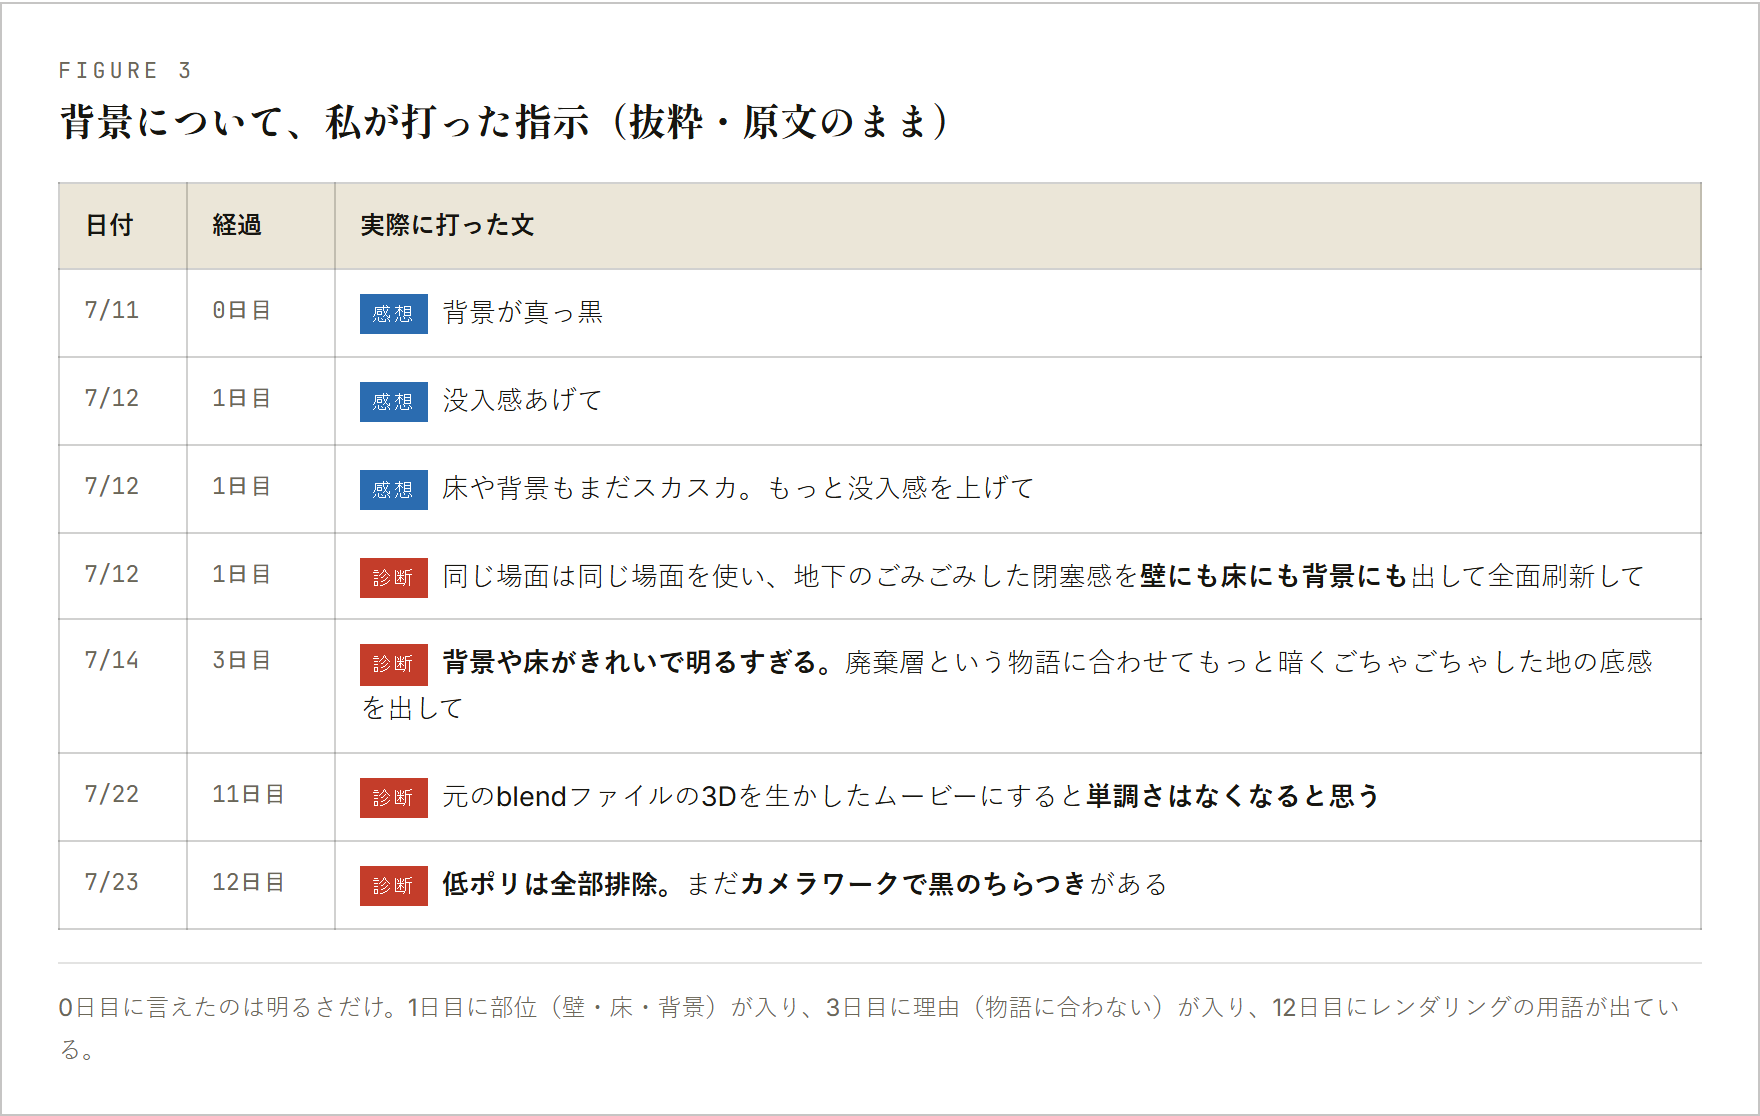
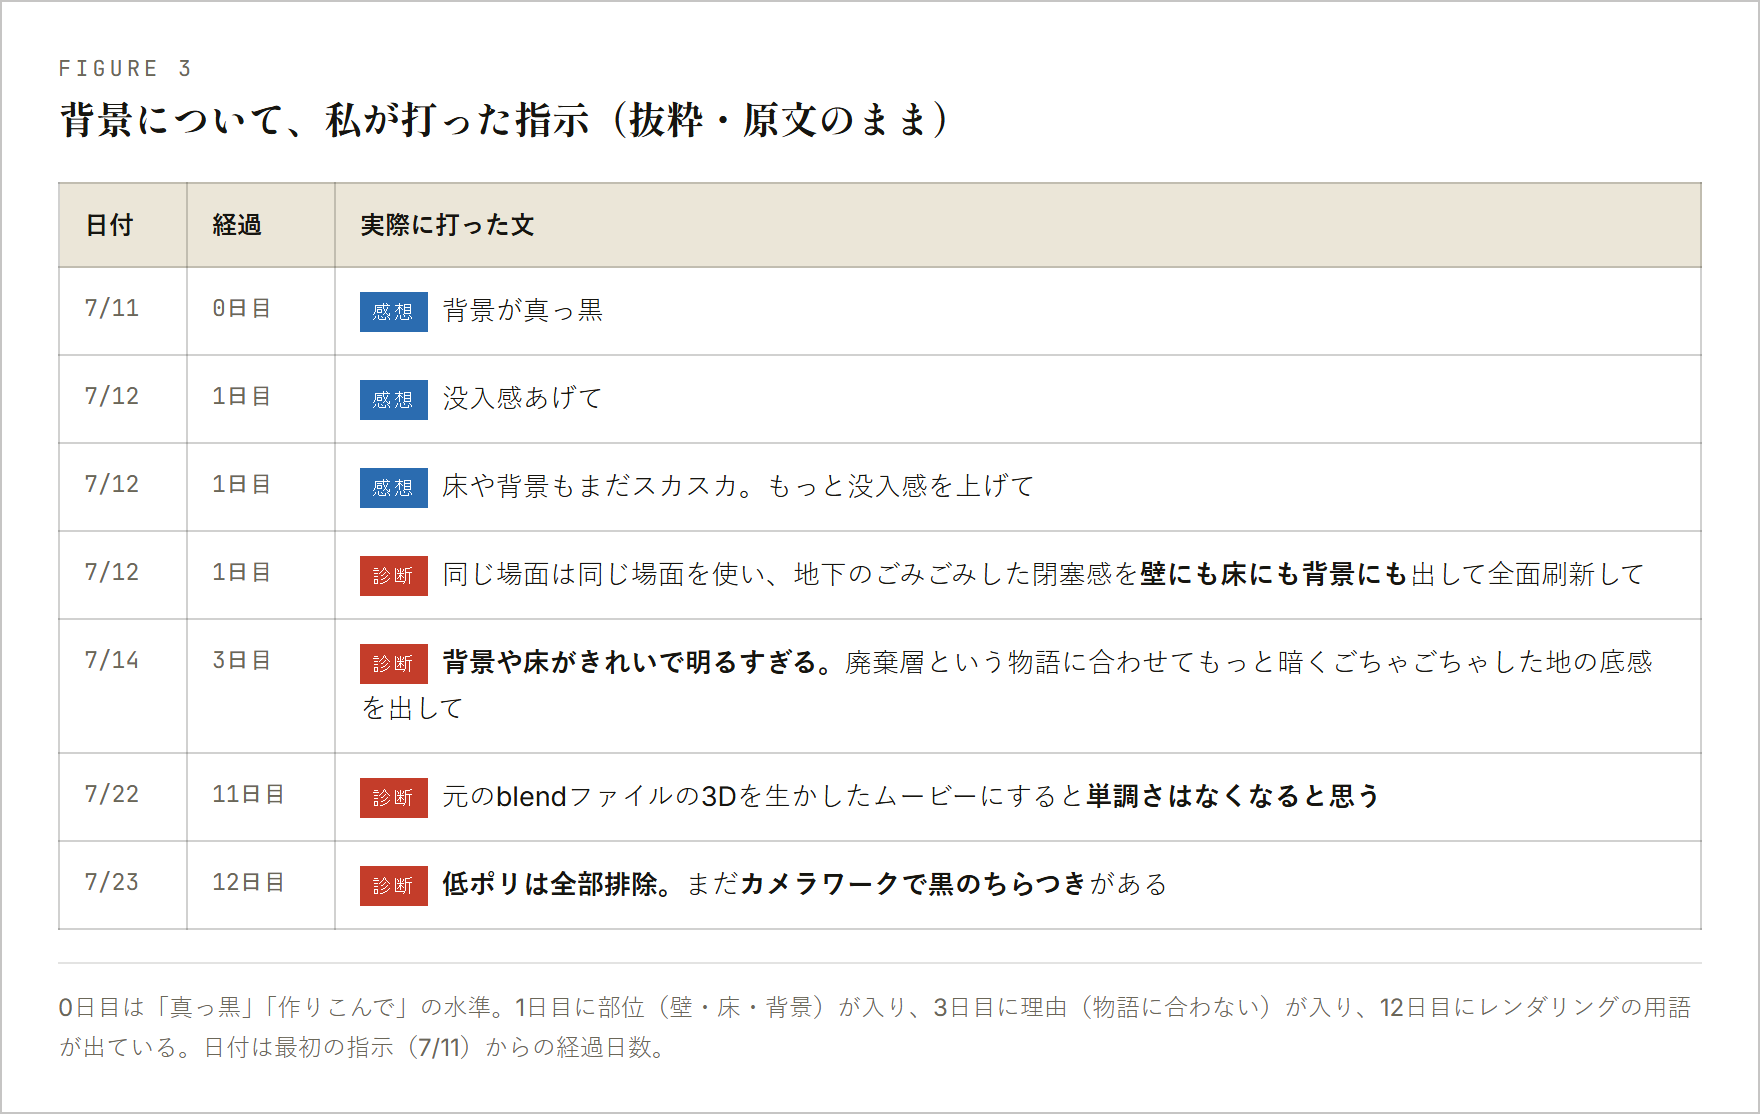
fix(method): A-9 の「12日で6回」を実測の2日半に訂正
背景6版のコミットは 2026-07-12 10:40 〜 07-14 23:34 で、差は2日12時間54分。
「12日」は指示ログ全体（7/11〜7/23）の期間で、背景の作り直し期間と取り違えていた。
記事本文・Figure 1・見出し画像・X用カードをすべて訂正し、図には実時刻を明記。
Figure 3 の「0日目に言えたのは明るさだけ」も、同日に「作りこんで」があるため表現を弱めた。

diff --git a/method/mongaikan-no-mekiki.html b/method/mongaikan-no-mekiki.html
@@ -96,13 +96,13 @@ figcaption{margin-top:9px;font-size:12.5px;color:var(--ink-3);line-height:1.65}
 
   <h3>実例 — 私は3Dで止まった</h3>
   <p>
-    サウンドノベル『正解の外側』の廃棄層。同じ場所の360°背景を、12日で6回作り直しています。
+    サウンドノベル『正解の外側』の廃棄層。同じ場所の360°背景を、<strong>2日半で6回</strong>作り直しています。
     素材は KitBash3D、レンダリングは Blender。どちらも専門外でした。
   </p>
 
   <figure>
     <img src="../assets/hyoka/bg-versions.png" alt="廃棄層の背景6版。第1版は真っ黒で何も無く、第3版は明るいが床が空っぽ、第6版は暗くガラクタで埋まっている">
-    <figcaption>左上が最初、右下が完成版。素材も場所も同じで、変えたのは配置と光だけです。</figcaption>
+    <figcaption>左上が最初（7月12日 10:40）、右下が完成版（7月14日 23:34）。素材も場所も同じで、変えたのは配置と光だけです。</figcaption>
   </figure>
 
   <p>
